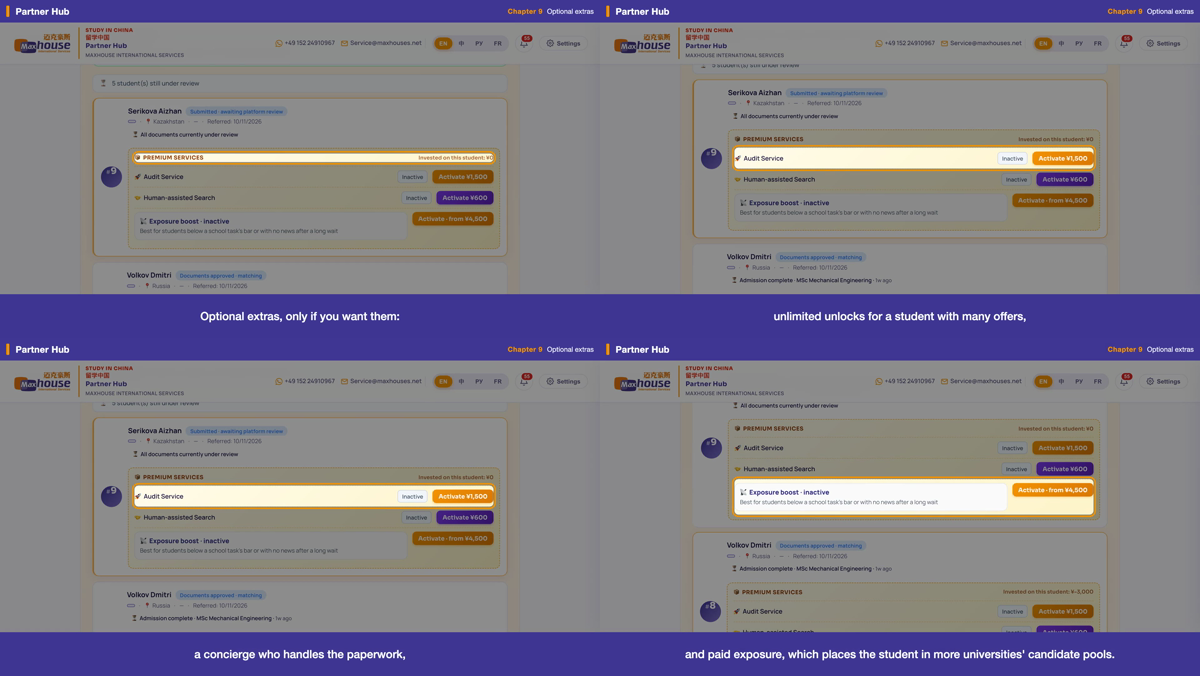
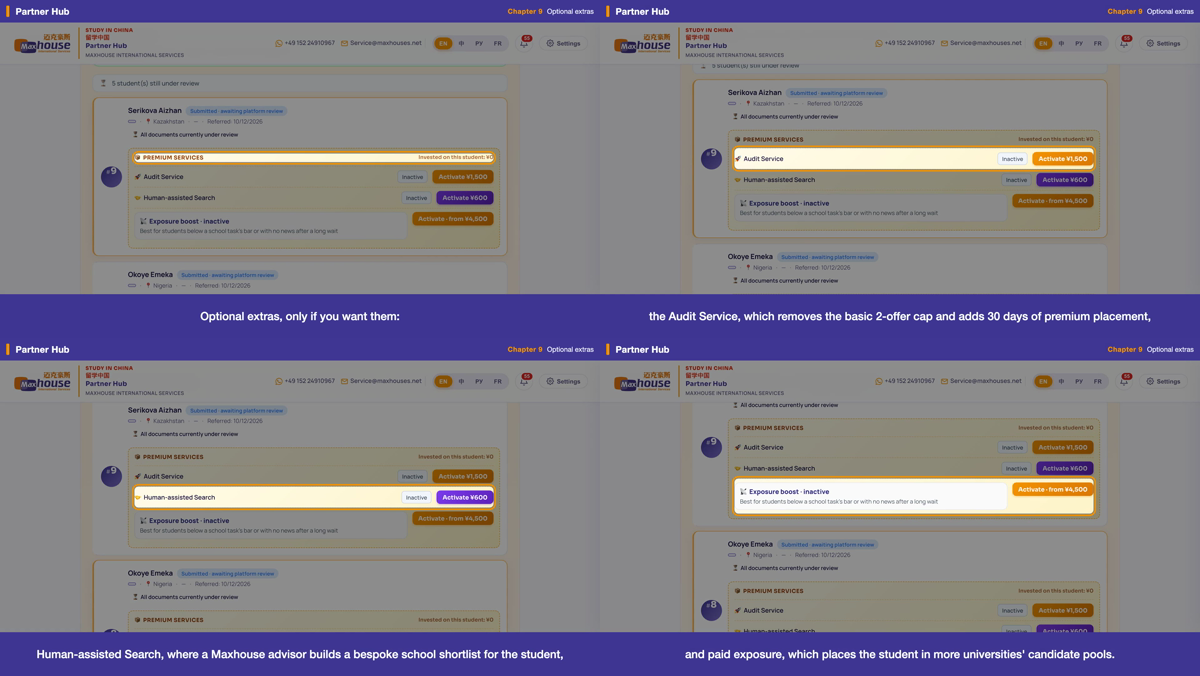
JOB-GP1 返工trip23 §三.6: ch9 增值服务名四语重出联络表(9-2 Audit Service/9-3 Human-assisted Search 按产品真名改+框对应行) + REVIEW-{en,zh,ru,fr}-shots.md(§十一逐镜对账,ch9段) + 进度/决定账。根因:增值服务区只在列表卡渲染非详情弹窗,改不开弹窗高亮真行。

diff --git a/JOB-GP1-03-PROGRESS.md b/JOB-GP1-03-PROGRESS.md
@@ -1,4 +1,14 @@
-最后一趟：2026-10-12 17:35 第22趟 返工：**做了**＝① ch6 RU/FR 重出（4 片 6-1/6-2/6-3/6-7，时长 ru 26.5/26.7s、fr 26.0/25.9s）→ **§二「去点解锁揭晓」四语全部重出完毕**（EN/ZH trip21 + RU/FR 本趟）；录制高亮全 resolve+四片 no @gmail→合成→联络表（新增 gp1-finish `--chapter` 只出单章）→逐张亲眼复验：画面↔字幕一致、盲码 SCH-1AD6C8 无校名、全分辨率证 **beta「Unlock to view」链接不可见**、章节条左 ru/fr 保 Partner Hub；baseline **17/17** 全程未动（ch6 只读）。② **§三 逐镜漏斗审计（D-22-2）**：查实 ch9 9-1..9-4（内联 PREMIUM SERVICES 行，漏斗已滚出画面）与 ch5 5-2/5-3/5-4（详情弹窗）**不含工作台漏斗 → §三.6(9-2/9-3)、§三.3(5-2)、§三.4(5-4) 不受缺陷2 阻塞，可独立返工**；5-1/7-4/2-x 等工作台帧仍阻塞。**下趟**：ch9 §三.6（读 i18n 真服务名改 9-2/9-3 字幕+重录）或 ch5 §三.3/5-2（缓存帧重烧字幕四语），一趟一章专做；§五快剪 OP-2(6-1/6-2) 源已定版可做、OP-3/4/5 待 ch3/ch7 裁决；凡含漏斗章定版重出 + 最终缺陷2 NEEDS_OWNER_DECISION 待后续。**GP-1 未收官，勿据旧『收官』停工。**（以下为第21趟记录）**做了**：只读实证盲态有接受钮/beta解锁链接→删 6-4(点beta解锁)+6-6(注入揭晓)，第6章改全程只读 6-1→6-2→6-3→6-7(零写库)；6-3 字幕 unlock→accept、7-1 字幕改『校名揭晓+下载』(揭晓移到 7-0 真付后的 7-1)，四语重译重配音；录取弹窗底部内测链接『Unlock to view(beta)』录制层隐藏(rec.mjs HIDE_INIT，踩坑:document-start注style被SPA重渲丢弃→改 setInterval+MutationObserver 打inline display:none)；速览 ch6 段 6-2/6-6→6-2；storyboard→v1.3。**重出 ch6 EN+ZH 横竖**(4镜,时长en25.9/zh26.3s)：录制高亮全resolve+no @gmail→合成→联络表(每镜字幕中点)→逐张亲眼复验：画面↔字幕一致、盲码SCH-1AD6C8无校名、**beta链接已不可见**、Privacy盲态说明保留、ZH章节条『合作伙伴端』。baseline 17/17 全程未动(ch6只读)。**下趟**：ch6 RU/FR 重出(译文/配音已备)；再 §三 不含工作台漏斗的字幕镜 + §五 OP-2(6-1/6-2) 可先做。凡含工作台漏斗章(1/2/3/5/7/8/9/10)定版重出+缺陷2(产品漏斗bug)NEEDS_OWNER_DECISION 待后续。**GP-1 未收官，勿据旧『收官』停工。**
+最后一趟：2026-10-12 18:20 第23趟 返工：**做了**＝§三.6 ch9「增值服务名」四语重出。根因＝增值服务区(PREMIUM SERVICES)只在推荐生列表卡渲染、不在详情弹窗(探针实证#studentDetailModal内0个.partner-premium-block)，旧CONTEXT开弹窗遮住列表→高亮回退弹窗后首卡行→9-2/9-3框错行且不在视口；改rec.mjs CONTEXT[9]不开弹窗、滚首卡增值服务区、9-2 hl→nth-of-type(2)Audit Service¥1,500行/9-3→nth-of-type(3)Human-assisted Search¥600行。9-2/9-3字幕按产品vapay真名真说明四语重写(9-2解除2offer上限+优先推荐位30天/9-3 Maxhouse顾问定制学校清单)+重配音，横竖四语重录重合成(en22.8/zh23.8/ru26.4/fr24.3s)+联络表。逐张亲眼复验(en/zh/ru/fr land全+ru-port 9-3全分辨率+原始帧)：各镜框对应真行不越界、字幕↔行同指、no @gmail、无真PII。新建REVIEW-{en,zh,ru,fr}-shots.md(§十一对账)。ch9只读、verify 17/17全程守住。踩坑：①zsh未对$combo分词致乱TAG重录②ugrep `|grep -E "->|res="`管道SIGPIPE杀prod-ch致mp4没更新→去管道重合成(LEDGER-3)。**下趟**＝§三余下不受缺陷2阻塞镜：ch5 §三.3(5-2缓存帧重烧字幕四语，不碰DB)或§三.4(5-4置态真上传更正件→审核中再框，需可靠reset)；§五OP-2(6-1/6-2)可做。仍受缺陷2阻塞的工作台漏斗章(§三.1/.2/.5/.7/.8+ch1/2/3/7/8/10工作台帧)定版重出+最终缺陷2 NEEDS_OWNER_DECISION待后续。**GP-1 未收官，勿据旧『收官』停工。**
+
+## 第 23 趟（2026-10-12 Mac mini 无人值守）· 返工 §三.6 ch9 增值服务名四语重出 + 根因修复
+- **接手核对**：读齐 PROGRESS/loop-tail/RULING-20261012b-review1/-c-rework/DECISIONS。上一趟（16:00）教训＝误读旧「收官」即停——本趟首行已改「返工进行中」不复犯。开工 verify **17/17 PASS**（ch9 只读，baseline 守住）。
+- **只读取证产品真名**（review1 §三.6「读 i18n 与界面文字」，partner v184）：Audit Service ¥1,500（解除基础版 2offer 上限+优先推荐位+30天服务期）/ Human-assisted Search ¥600（Maxhouse 顾问定制专属学校清单）/ Exposure boost 从¥4,500（9-4 本就对，保留）。旧 9-2「unlimited unlocks」/9-3「concierge」皆非产品真名→按真名重写。
+- **根因修复（D-23-1）**：增值服务区 `_v107renderPremiumBlock` 在 `renderPartnerStudentsSection` 内渲染，**只在推荐生列表卡、不在详情弹窗**（探针实证 #studentDetailModal 内 0 个 .partner-premium-block；全页 9 个 block=9 张卡各一）。旧 CONTEXT 开详情弹窗→弹窗遮列表→高亮回退弹窗后首卡行→9-2/9-3 框错且不在视口（抽帧实证旧高亮落在「withdrawn notice」行，增值服务区根本不在画面）。v1 ch9 亦潜伏此缺陷。改：rec.mjs CONTEXT['9'] 不开弹窗、滚首卡增值服务区；9-2 hl→.partner-premium-block>div:nth-of-type(2)（Audit 行）、9-3→nth-of-type(3)（Search 行）。
+- **四语重出**：字幕四语重写（captions-v1.json en/zh/ru/fr + shots capEN/capZH）→ 重配音（删 9-2/9-3 旧声、tts 补，各 lang 2 new 全 in-range）→ rec ch9 land+port×4 → prod-ch 合成 8 片（en22.8/zh23.8/ru26.4/fr24.3s）→ gp1-finish --chapter 9 联络表四语。**两处踩坑**：①首轮循环 zsh 未对 $combo 分词→TAG 乱名+错 orient，废弃重录；②compose 误用 `| grep -E "->|res="`（ugrep 把 - 当选项→SIGPIPE 杀 prod-ch，mp4 没更新显旧片），去 grep 管道重合成修复（LEDGER-3）。
+- **逐张亲眼复验**（en/zh/ru/fr land 全 + ru-port 9-3 全分辨率 + en-land 原始帧）：9-1 框 PREMIUM SERVICES 标题、9-2 框 🚀 Audit Service ¥1,500、9-3 框 🤝 Human-assisted Search ¥600、9-4 框 📡 Exposure boost，各不越界；字幕↔所框行指同一服务。四语 no @gmail、无真 PII（演示生 Serikova Aizhan）；页头平台 WhatsApp/Email 不遮（D-14-3/D-15-1）；RU/FR 服务名英文回退（D-18-4）照录入 SUMMARY。对账表 REVIEW-{en,zh,ru,fr}-shots.md 新建（§十一，ch9 段）。
+- **DB**：ch9 全程只读，收工 verify **17/17 PASS 0 FAIL**。零置态/零写库。
+- **改了**（主仓库，不推）：rec/rec.mjs、rec/shots-v1.json、captions-v1.json、rec/_probe-ch9-rows.mjs(新)、rec/_probe-ch9-diag.mjs(新)、REVIEW-{en,zh,ru,fr}-shots.md(新)、DECISIONS.md。成片/voice 不入 git；ch9 四语联络表 + 四 REVIEW-*-shots + 决定账推 mh-jobs。
+- **下趟**：§三 余下不受缺陷2阻塞镜——ch5 §三.3（5-2 缓存帧重烧字幕四语）或 §三.4（5-4 置态真上传更正件→审核中再框，需可靠 reset）；§五 OP-2(6-1/6-2) 可做。仍受缺陷2阻塞的工作台漏斗章 + 最终 NEEDS_OWNER_DECISION 待后续。**GP-1 未收官。**
 
 ## 第 22 趟（2026-10-12 Mac mini 无人值守）· 返工 §二 ch6 RU/FR 重出（完成 §二 四语）+ §三 逐镜漏斗审计
 - **接手核对**：读齐 PROGRESS/loop-tail/RULING-20261012b-review1/-c-rework/DECISIONS。上一趟（16:00）教训＝误读旧『收官』即停——本趟首行已改『返工进行中』不复犯。开工 verify **17/17 PASS**（baseline 守住）。

diff --git a/JOB-GP1-decisions.md b/JOB-GP1-decisions.md
@@ -422,3 +422,27 @@
 - **下趟可做（不受缺陷2 阻塞）**：①ch9 §三.6（9-2/9-3 服务名字幕 + 重录）；②ch5 §三.3（5-2 缓存帧重烧字幕四语）、§三.4（5-4 置态重录，需可靠 reset）。建议一趟一章专做，照「英文先、再四语」。
 - **改了**：仅本条审计（只读看图），无代码改动。
 - **非四种停下情形**：只读审计，记账继续。
+
+## D-23-1 (2026-10-12 第23趟 · §三.6 ch9 增值服务名四语重出 + 根因修复)
+- **接手**：第22趟做完 §二 ch6 四语 + §三逐镜审计（D-22-2 判 ch9 §三.6 不受缺陷2阻塞）。本趟按「一趟一章」做 ch9 §三.6。开工 verify **17/17 PASS**（ch9 只读，baseline 全程守住）。
+- **只读取证产品真名**（照 review1 §三.6「读 i18n 与界面文字」）：partner-portal v184（录制用版本）
+  - `partner.premium.auditLabel`='🚀 Audit Service'（激活 ¥1,500）；`partner.vapay.auditDesc`='Audit Service — removes the 2-offer basic-tier cap, premium placement, and a 30-day service window.'
+  - `partner.premium.searchLabel`='🤝 Human-assisted Search'（激活 ¥600）；`partner.vapay.searchDesc`='Human-assisted Search — a Maxhouse advisor builds a bespoke shortlist for the student.'
+  - 第三项 = `.partner-premium-row--boost`='📡 Exposure boost · from ¥4,500'（9-4 字幕本就对，保留）。
+  - 旧 9-2 字幕'unlimited unlocks'/9-3'concierge' 皆非产品真名（审计实证两镜还都框在首行）→ 按真名重写。
+- **根因（D-23 关键）**：增值服务区由 `_v107renderPremiumBlock(idx)` 在 `renderPartnerStudentsSection` 内渲染，**嵌在每张推荐生「列表卡」`.partner-student-card` 里，不在详情弹窗**。只读探针实证：`#studentDetailModal`（viewReferredStudent→openStudentDetailModal 打开）内 **0 个 `.partner-premium-block`**；页面共 9 个 block（9 张列表卡各一）。旧 CONTEXT['9'] 开详情弹窗→弹窗遮住列表→`.partner-premium-row` first-visible 回退到弹窗后首张列表卡的行→9-2/9-3 框错行且不在视口（抽帧实证旧版高亮落在「Registered students can't be withdrawn here」通知行，增值服务区根本不在画面）。v1 ch9 亦有此潜伏缺陷。
+- **改法**：
+  1. `rec.mjs` CONTEXT['9'] 改为**不开弹窗**：`(function poll(){var b=document.querySelector('.partner-premium-block');if(b){b.scrollIntoView({block:'center'});}else setTimeout(poll,300);})();`——滚首张列表卡增值服务区到视口中心；逐镜 hl 取 first-visible 真行（9 卡服务行同构同价、字幕不点名学生，取首卡 Serikova Aizhan 即可，其 Audit/Search/boost 均未激活、显 ¥1,500/¥600/¥4,500起，干净）。
+  2. `shots-v1.json`：9-2 hl `.partner-premium-row`→`.partner-premium-block > div:nth-of-type(2)`（Audit 行）；9-3→`nth-of-type(3)`（Search 行）；action/expect 同步改真名；capEN/capZH 换新文案。9-1(`.partner-premium-title`)/9-4(`.partner-premium-row--boost`)选择器不动。
+  3. 字幕四语（`captions-v1.json` en/zh/ru/fr + `shots-v1.json` capEN/capZH 保持 en/zh 同字）：
+     - 9-2 EN "the Audit Service, which removes the basic 2-offer cap and adds 30 days of premium placement," / 中「Audit 服务，解除基础版两个 offer 上限，并提供 30 天优先推荐位；」/ ru / fr 据 EN 重译回译。
+     - 9-3 EN "Human-assisted Search, where a Maxhouse advisor builds a bespoke school shortlist for the student," / 中「人工搜索，由 Maxhouse 顾问为学生定制专属学校清单；」/ ru / fr 同法。
+     - 9-1/9-4 四语不改。
+  4. 重配音：删 voice/{en,zh,ru,fr}/9-2.m4a·9-3.m4a → `tts-gp1.mjs --lang <l>`（不加 --force，只补这两条）。各 lang 恰 2 new、全 in-range（9-2/9-3 时长 en5.5/5.5 zh6.5/5.5 ru7/6.9 fr6.3/5.6）。
+- **四语横竖重出**：rec ch9 land+port×4（首轮循环因 zsh 未对 `$combo` 分词致 TAG 乱名+错 orient，废弃重录；修 CONTEXT 后再录一轮才正确）→ prod-ch 合成 8 片（分辨率/音轨 OK，时长 en22.8/zh23.8/ru26.4/fr24.3s）→ 联络表 gp1-finish --chapter 9 四语。**踩坑**：compose 管道误用 `... | grep -E "->|res="`（本机 grep=ugrep，`-` 头被当选项→grep 立退→SIGPIPE 杀 prod-ch，mp4 未更新、联络表读旧片显错）；去掉 grep 管道重合成修复（LEDGER-3 工装纪律：grep 一律 `-cF -e`，或别用 `-` 头模式）。
+- **逐张亲眼复验**（en/zh/ru/fr land 全 + ru port 9-3 全分辨率 + en-land 原始帧 f00068）：9-1 框 PREMIUM SERVICES 标题、9-2 框 🚀 Audit Service ¥1,500 行、9-3 框 🤝 Human-assisted Search ¥600 行、9-4 框 📡 Exposure boost 行，各不越界；字幕↔所框行指同一服务。port 窄幅下 Human-assisted Search 标签换行致行加高，高亮只罩该行。四语全片 no @gmail、无真 PII（演示生 Serikova Aizhan）。页头平台 WhatsApp/Email 不遮（D-14-3/D-15-1）。RU/FR 界面服务名英文回退（D-18-4）照录，写进 SUMMARY。
+- **DB**：ch9 全程只读，收工 verify **17/17 PASS 0 FAIL**。零置态/零写库。
+- **对账表**：新建 REVIEW-{en,zh,ru,fr}-shots.md（review1 §十一，ch9 段；随后续返工逐章追加）。
+- **改了**（主仓库，不推）：rec/rec.mjs(CONTEXT['9'])、rec/shots-v1.json(9-2/9-3 hl+文案+action+expect)、captions-v1.json(9-2/9-3 四语)、rec/_probe-ch9-rows.mjs(新)、rec/_probe-ch9-diag.mjs(新)、REVIEW-{en,zh,ru,fr}-shots.md(新)、DECISIONS.md。成片/voice 不入 git；ch9 四语联络表推 mh-jobs。第一版 ch9 成片早已在 guide/dist/partner/_v1/ 留底，本趟覆盖为第二版。
+- **非四种停下情形**：§三.6 全在只读范围，处理完毕记账继续。
+- **下趟**：§三 余下不受缺陷2阻塞镜——ch5 §三.3（5-2 缓存帧重烧字幕四语，不碰DB）或 §三.4（5-4 置态真上传更正件→审核中再框，需可靠 scoped reset）；§五 OP-2(6-1/6-2) 可做。仍受缺陷2阻塞（含工作台漏斗）：§三.1(2-2)/.2(2-4)/.5(7-4)/.7(ch8横幅)/.8(节奏3-1/3-8/5-1) + ch1-8/ch3/ch7/ch8/ch10 工作台帧；最终缺陷2 NEEDS_OWNER_DECISION 待后续。

diff --git a/JOB-GP1-REVIEW-ru-shots.md b/JOB-GP1-REVIEW-ru-shots.md
@@ -1,0 +1,18 @@
+# REVIEW-ru-shots · 逐镜对账表（review1 §十一）· RU
+
+取帧点＝每镜字幕显示中点那一帧。高亮区文字从当时 DOM 读。随返工逐章追加。
+
+## ch9 §三.6（增值服务名，返工第23趟 2026-10-12）
+根因同 EN（增值服务区只在推荐生列表卡渲染；改不开弹窗、高亮列表卡真行）。
+D-18-4：RU 界面里产品动态串回退成英文（PREMIUM SERVICES / Audit Service / Human-assisted Search / Inactive / Activate 均英文；boost 行与 Вложено 本地化）——产品真实行为，照录不补，写进 SUMMARY 产品问题。字幕用俄文点名服务并描述，与所框行指同一服务＝同一件事。
+
+| 镜 | 字幕原文 | 高亮区 DOM 实际文字 | 同一件事？ |
+|----|----------|---------------------|-----------|
+| 9-1 | Дополнительные услуги — по желанию: | 📦 PREMIUM SERVICES · Вложено в студента: ¥0 | 是（框增值服务区标题行） |
+| 9-2 | услуга Audit Service, снимающая базовый лимит в 2 предложения и дающая приоритетное размещение на 30 дней, | 🚀 Audit Service · Inactive · Activate ¥1,500 | 是（框 Audit Service 行；据 `partner.vapay.auditDesc` 重译回译） |
+| 9-3 | услуга Human-assisted Search, где консультант Maxhouse составляет индивидуальный список вузов для студента, | 🤝 Human-assisted Search · Inactive · Activate ¥600 | 是（框 Human-assisted Search 行；据 `partner.vapay.searchDesc` 重译回译） |
+| 9-4 | и платное продвижение, которое помещает студента в списки кандидатов большего числа вузов. | 📡 Платное продвижение · не активно … Активировать · от ¥4,500 | 是（框 Платное продвижение/Exposure boost 行，字幕未改） |
+
+- 时长：land 26.46s / port 26.41s。no @gmail。章节条左标签「Partner Hub」(D-18-5)。演示生 Serikova Aizhan，无真 PII。
+- 逐张亲眼复验（含 port 9-3 全分辨率）：各镜框对应行，port 下 Human-assisted Search 标签换行致行加高，高亮只罩该行、未越到 boost 行。
+- item-7 RU 禁用词扫描：0 命中（_scan-ru-forbidden 73 串 PASS）。

diff --git a/JOB-GP1-REVIEW-en-shots.md b/JOB-GP1-REVIEW-en-shots.md
@@ -1,0 +1,18 @@
+# REVIEW-en-shots · 逐镜对账表（review1 §十一）· EN
+
+取帧点＝每镜字幕显示中点那一帧。高亮区文字从当时 DOM 读（非抄分镜）。
+本文件随返工逐章追加；满章返工完毕后并入 EN 十一项重审。
+
+## ch9 §三.6（增值服务名，返工第23趟 2026-10-12）
+根因：增值服务区（PREMIUM SERVICES）由 `_v107renderPremiumBlock` 在 `renderPartnerStudentsSection` 内渲染，**只在推荐生列表卡里，不在详情弹窗**（实证：`#studentDetailModal` 内 0 个 `.partner-premium-block`）。旧版 CONTEXT 开详情弹窗→弹窗遮住列表、高亮回退到弹窗后首张列表卡的行→9-2/9-3 框错行且不在视口。改为不开弹窗、滚首张列表卡增值服务区、逐镜高亮 first-visible 真行（9 张卡服务行同构同价，字幕不点名学生）。
+
+| 镜 | 字幕原文 | 高亮区 DOM 实际文字 | 同一件事？ |
+|----|----------|---------------------|-----------|
+| 9-1 | Optional extras, only if you want them: | 📦 PREMIUM SERVICES · Invested on this student: ¥0 | 是（框增值服务区标题行） |
+| 9-2 | the Audit Service, which removes the basic 2-offer cap and adds 30 days of premium placement, | 🚀 Audit Service · Inactive · Activate ¥1,500 | 是（框 Audit Service 行；据产品 `partner.vapay.auditDesc`="removes the 2-offer basic-tier cap, premium placement, and a 30-day service window." 改写） |
+| 9-3 | Human-assisted Search, where a Maxhouse advisor builds a bespoke school shortlist for the student, | 🤝 Human-assisted Search · Inactive · Activate ¥600 | 是（框 Human-assisted Search 行；据 `partner.vapay.searchDesc`="a Maxhouse advisor builds a bespoke shortlist for the student." 改写） |
+| 9-4 | and paid exposure, which places the student in more universities' candidate pools. | 📡 Exposure boost · inactive … Activate · from ¥4,500 | 是（框 Exposure boost 行，字幕未改，review1 §三.6 保留） |
+
+- 时长：land 22.82s / port 22.78s。全片 DOM 扫描 no @gmail。
+- 页头平台 WhatsApp/Email 不遮（D-14-3/D-15-1 批准）。演示生 Serikova Aizhan，无真 PII。
+- 高亮逐张亲眼复验：9-2 框 Audit Service 行、9-3 框 Human-assisted Search 行、9-4 框 Exposure boost 行，各不越界。

diff --git a/JOB-GP1-REVIEW-fr-shots.md b/JOB-GP1-REVIEW-fr-shots.md
@@ -1,0 +1,18 @@
+# REVIEW-fr-shots · 逐镜对账表（review1 §十一）· FR
+
+取帧点＝每镜字幕显示中点那一帧。高亮区文字从当时 DOM 读。随返工逐章追加。
+
+## ch9 §三.6（增值服务名，返工第23趟 2026-10-12）
+根因同 EN（增值服务区只在推荐生列表卡渲染；改不开弹窗、高亮列表卡真行）。
+D-18-4：FR 界面里产品动态串回退成英文（PREMIUM SERVICES / Audit Service / Human-assisted Search / Inactive / Activate 均英文；boost 行 "Boost de visibilité" 与 Investi 本地化）——产品真实行为，照录不补，写进 SUMMARY 产品问题。字幕用法文点名服务并描述，与所框行指同一服务＝同一件事。
+
+| 镜 | 字幕原文 | 高亮区 DOM 实际文字 | 同一件事？ |
+|----|----------|---------------------|-----------|
+| 9-1 | Des options supplémentaires, seulement si vous le souhaitez : | 📦 PREMIUM SERVICES · Investi pour cet étudiant : ¥0 | 是（框增值服务区标题行） |
+| 9-2 | le service Audit, qui lève le plafond de 2 admissions de l'offre de base et ajoute 30 jours de placement prioritaire, | 🚀 Audit Service · Inactive · Activate ¥1,500 | 是（框 Audit Service 行；据 `partner.vapay.auditDesc` 重译回译） |
+| 9-3 | la Recherche assistée, où un conseiller Maxhouse établit une liste d'établissements sur mesure pour l'étudiant, | 🤝 Human-assisted Search · Inactive · Activate ¥600 | 是（框 Human-assisted Search 行；据 `partner.vapay.searchDesc` 重译回译） |
+| 9-4 | et une mise en avant payante, qui place l'étudiant dans les viviers de candidats de davantage d'universités. | 📡 Boost de visibilité · inactif … Activer · à partir de ¥4,500 | 是（框 Boost de visibilité/Exposure boost 行，字幕未改） |
+
+- 时长：land 24.27s / port 24.24s。no @gmail。章节条左标签「Partner Hub」(D-18-5)。演示生 Serikova Aizhan，无真 PII。
+- 逐张亲眼复验：各镜框对应行，不越界。
+- item-7 FR 禁用词扫描：0 命中（_scan-fr-forbidden 73 串 PASS）。

diff --git a/JOB-GP1-REVIEW-zh-shots.md b/JOB-GP1-REVIEW-zh-shots.md
@@ -1,0 +1,16 @@
+# REVIEW-zh-shots · 逐镜对账表（review1 §十一）· ZH
+
+取帧点＝每镜字幕显示中点那一帧。高亮区文字从当时 DOM 读。随返工逐章追加。
+
+## ch9 §三.6（增值服务名，返工第23趟 2026-10-12）
+根因同 EN（增值服务区只在推荐生列表卡渲染，非详情弹窗；改不开弹窗、高亮列表卡真行）。
+
+| 镜 | 字幕原文 | 高亮区 DOM 实际文字 | 同一件事？ |
+|----|----------|---------------------|-----------|
+| 9-1 | 可选的增值服务，用不用都行： | 📦 增值服务 · 该学生已投入：¥0 | 是（框增值服务区标题行） |
+| 9-2 | Audit 服务，解除基础版两个 offer 上限，并提供 30 天优先推荐位； | 🚀 Audit 服务 · 未激活 · 激活 ¥1,500 | 是（框 Audit 服务行；据产品 `partner.vapay.auditDesc`="解除基础版 2 个 offer 上限、优先推荐位、30 天服务期。" 改写） |
+| 9-3 | 人工搜索，由 Maxhouse 顾问为学生定制专属学校清单； | 🤝 人工搜索 · 未激活 · 激活 ¥600 | 是（框人工搜索行；据 `partner.vapay.searchDesc`="Maxhouse 顾问为该学生定制专属学校清单。" 改写） |
+| 9-4 | 付费曝光，让学生进入更多学校的候选池。 | 📡 付费曝光 · 未激活 … 激活 · ¥4,500 起 | 是（框付费曝光行，字幕未改） |
+
+- 时长：land 23.82s / port 23.82s。no @gmail。章节条左标签「合作伙伴端」。演示生 Serikova Aizhan，无真 PII。
+- 逐张亲眼复验：各镜框对应行，不越界。
